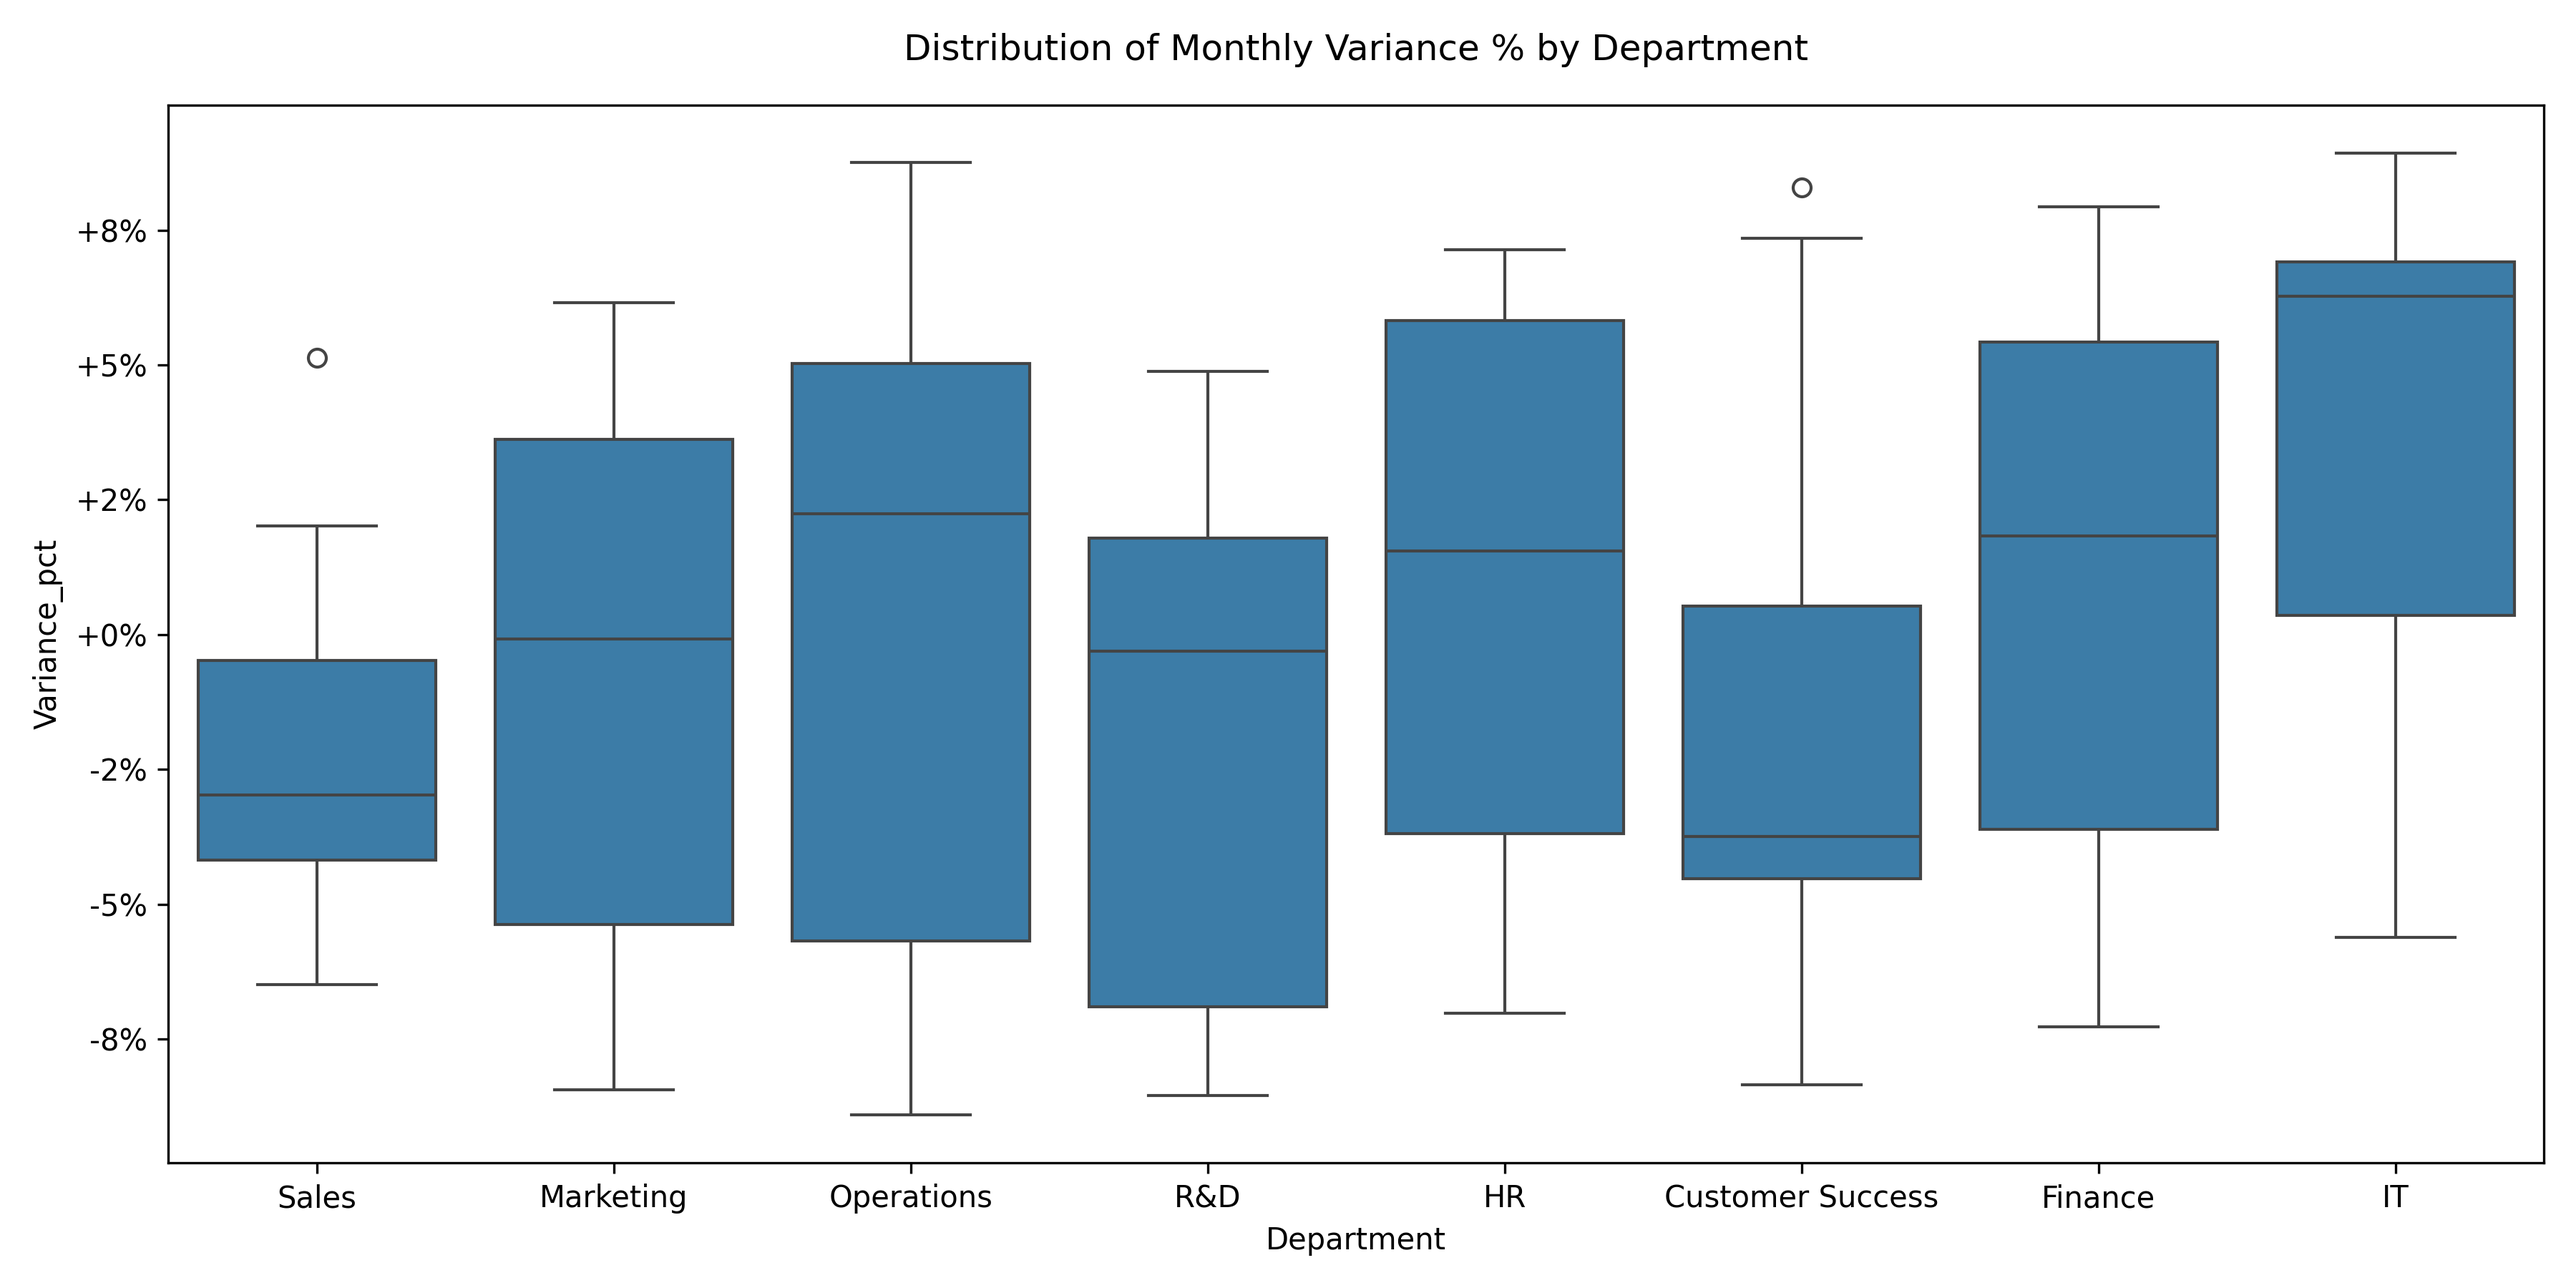
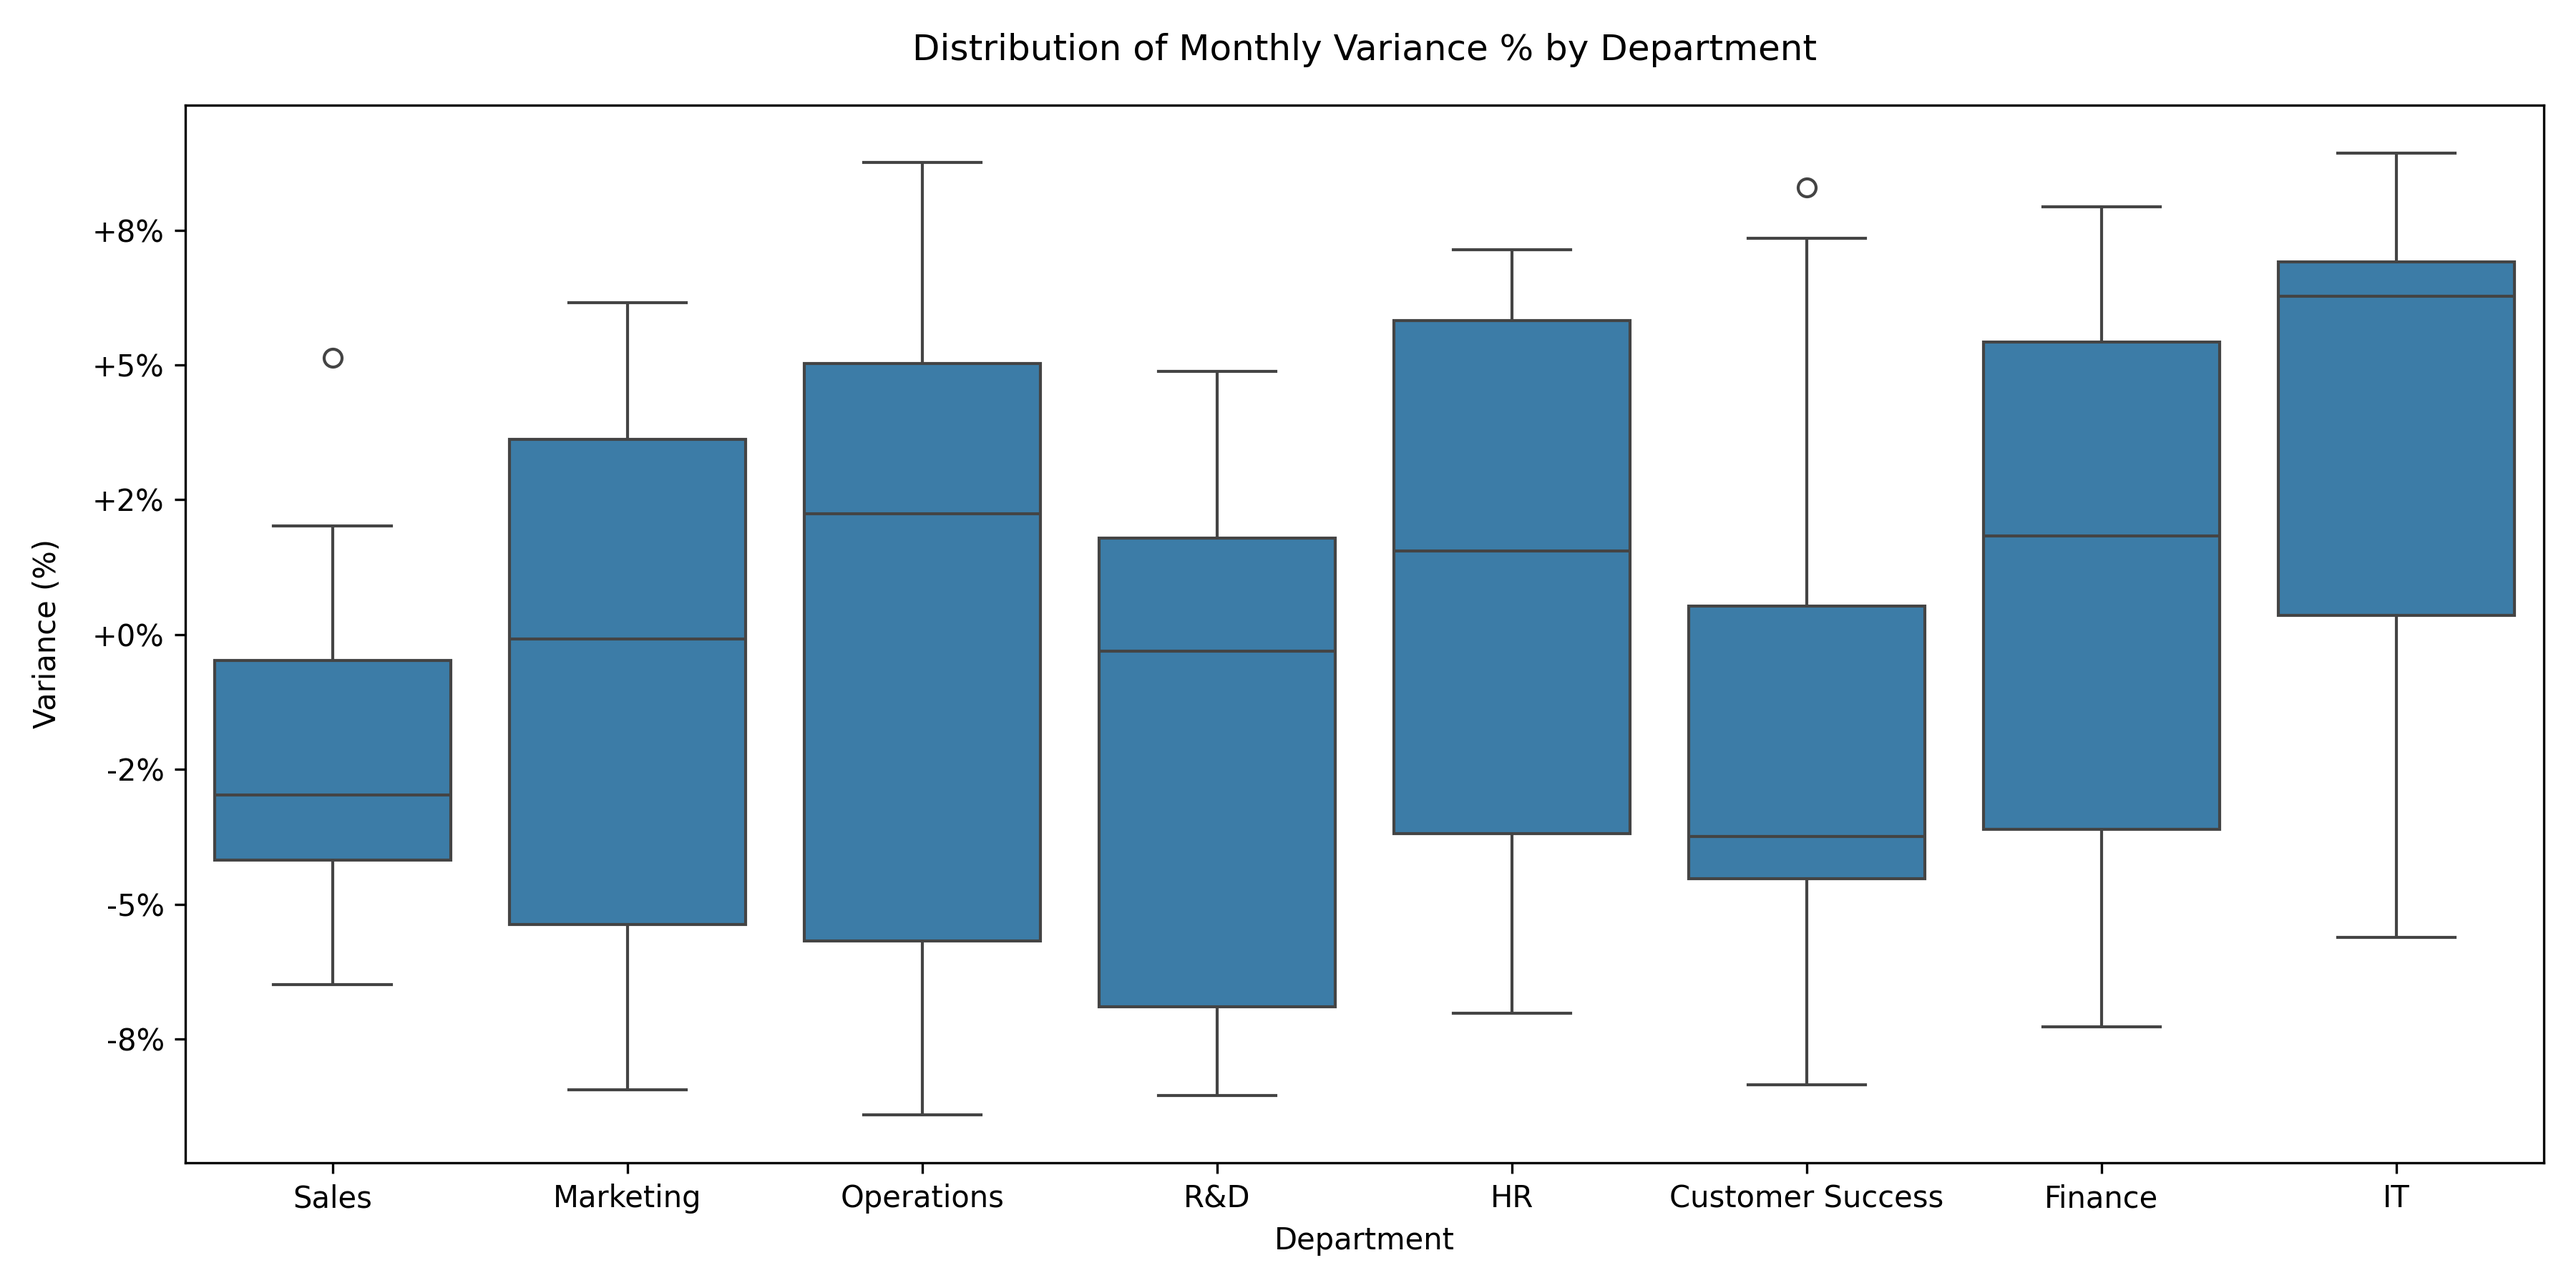
Add plot 4 and plot 5 updated visuals + update py file

diff --git a/variance_analysis.py b/variance_analysis.py
@@ -56,7 +56,7 @@ bar_data = (df.groupby("Department")["Variance_pct"]
               .reset_index())
 
 plt.figure(figsize=(10, 6))
-sns.barplot(data=bar_data, x="Department", y="Variance_pct", palette="viridis")
+sns.barplot(data=bar_data, x="Department", y="Variance_pct", hue="Department", palette="viridis", legend=False)
 plt.axhline(0, color="gray", ls="--", lw=1)
 plt.ylim(-8, 8)
 plt.ylabel("Average Variance (%)")
@@ -104,6 +104,7 @@ ax = sns.heatmap(heat*100, annot=True, fmt="",
                  cmap="coolwarm", center=0,
                  annot_kws={"fontsize":9},
                  cbar_kws={'label': 'Variance (%)'})
+ax.set_xlabel("Month")
 
 for t in ax.texts:
     t.set_text(f"{float(t.get_text()):+0.1f}")
@@ -122,8 +123,9 @@ plt.close()
 # =================================================
 plt.figure(figsize=(12, 6))
 ax = sns.boxplot(data=df, x="Department", y="Variance_pct", color="#2a80b9")
-ax.yaxis.set_major_formatter(mtick.FuncFormatter(lambda x, _: f"{x*100:+.0f}%"))
-plt.title("Distribution of Monthly Variance % by Department", pad=15)
+ax.yaxis.set_major_formatter(mtick.FuncFormatter(lambda x, _: f"{x*100:+.0f}%")) # Format Y-axis as percentage with +/- sign
+plt.ylabel("Variance (%)", labelpad=10) # Set axis labels and title
+plt.title("Distribution of Monthly Variance % by Department", pad=15) # Set axis labels and title
 plt.tight_layout()
 plt.savefig("plot5_boxplot_variance_pct.png", dpi=300)
 plt.close()
